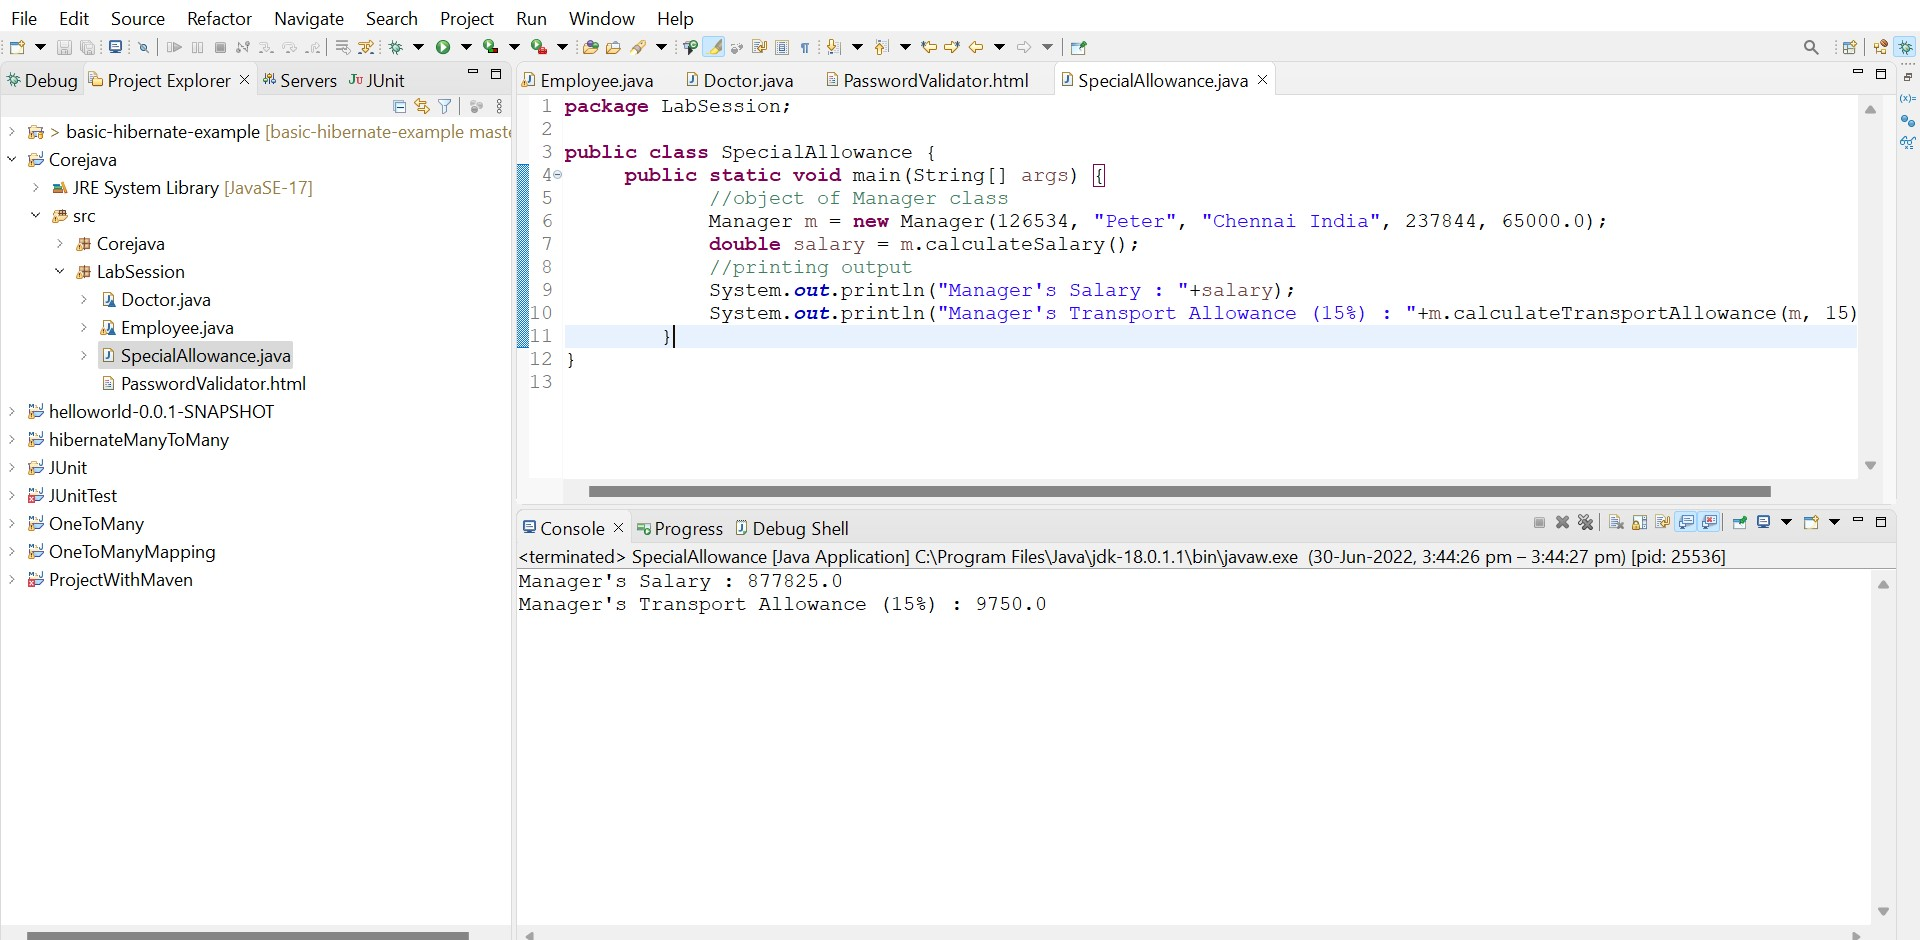
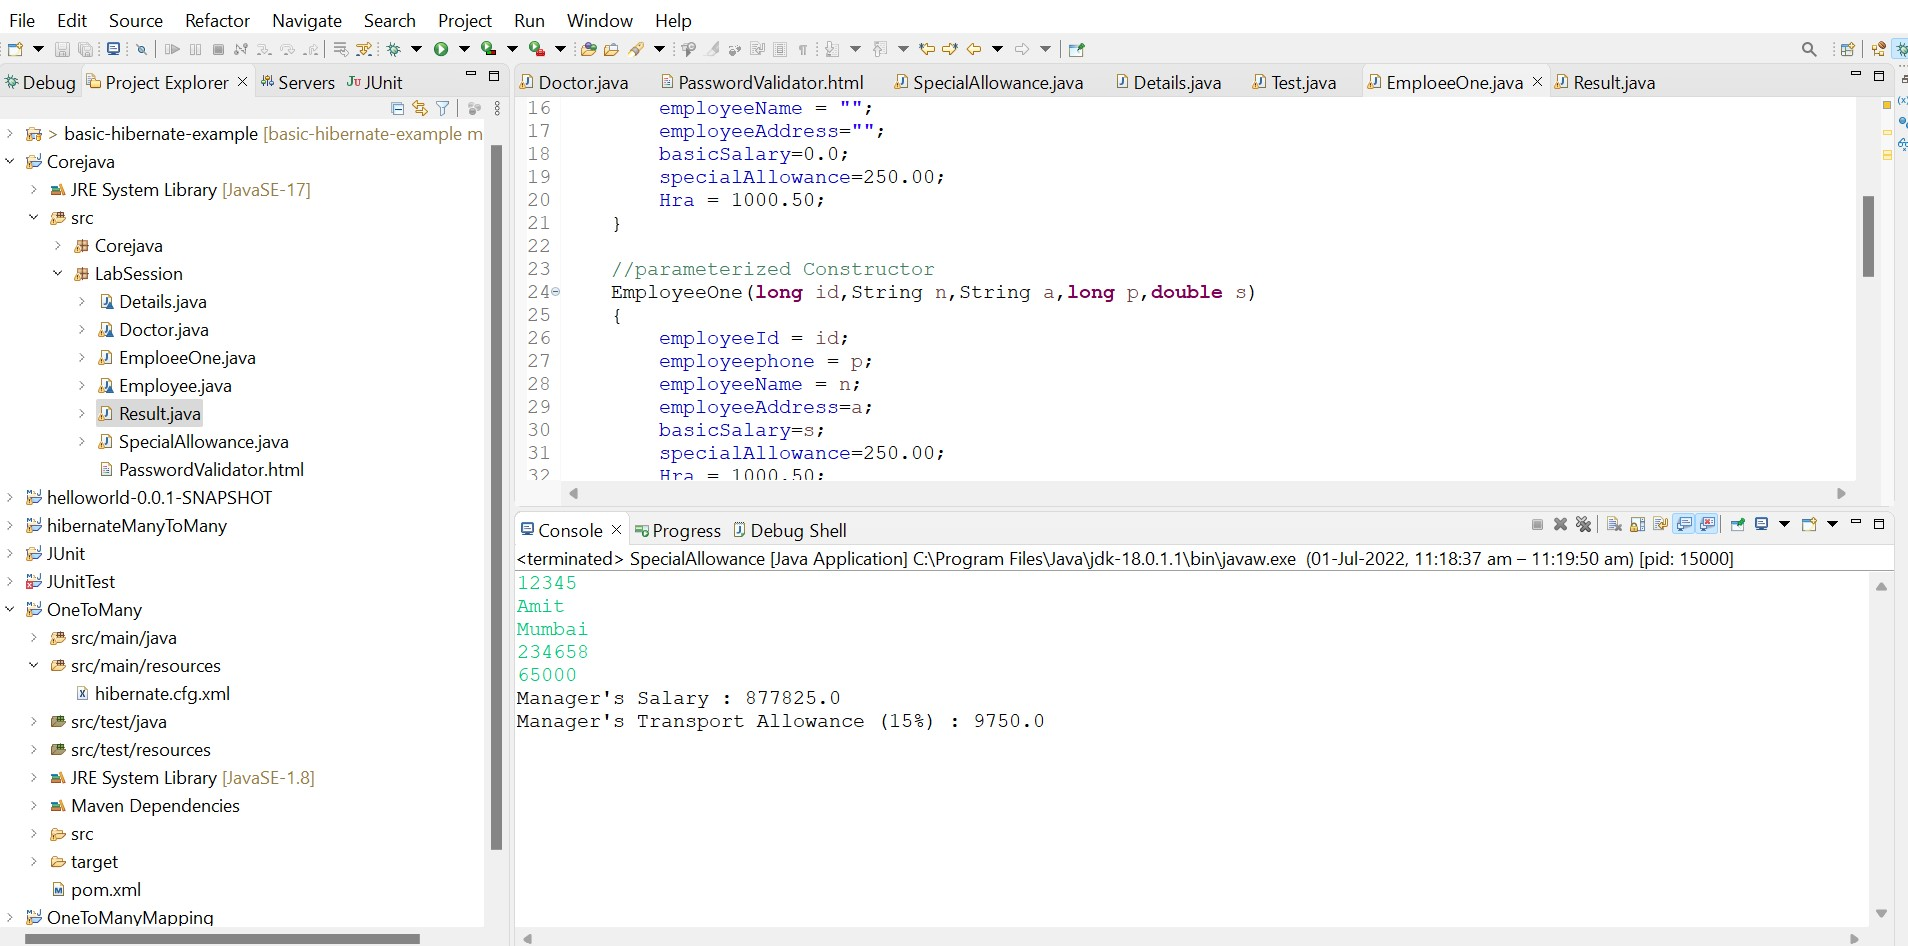
Add files via upload

diff --git a/Lab Session/30-06-2022/SpecialAllowance.java b/Lab Session/30-06-2022/SpecialAllowance.java
@@ -1,9 +1,13 @@
 package LabSession;
 
+import java.util.Scanner;
+
 public class SpecialAllowance {
 	 public static void main(String[] args) {
+		 	//object of scanner class
+		 	Scanner sc = new Scanner(System.in);
 	        //object of Manager class
-	        Manager m = new Manager(126534, "Peter", "Chennai India", 237844, 65000.0);
+	        ManagerOne m = new ManagerOne(Integer.parseInt(sc.nextLine()), sc.nextLine(), sc.nextLine(),sc.nextLong(),sc.nextDouble());
 	        double salary = m.calculateSalary(); 
 	        //printing output
 	        System.out.println("Manager's Salary : "+salary);
